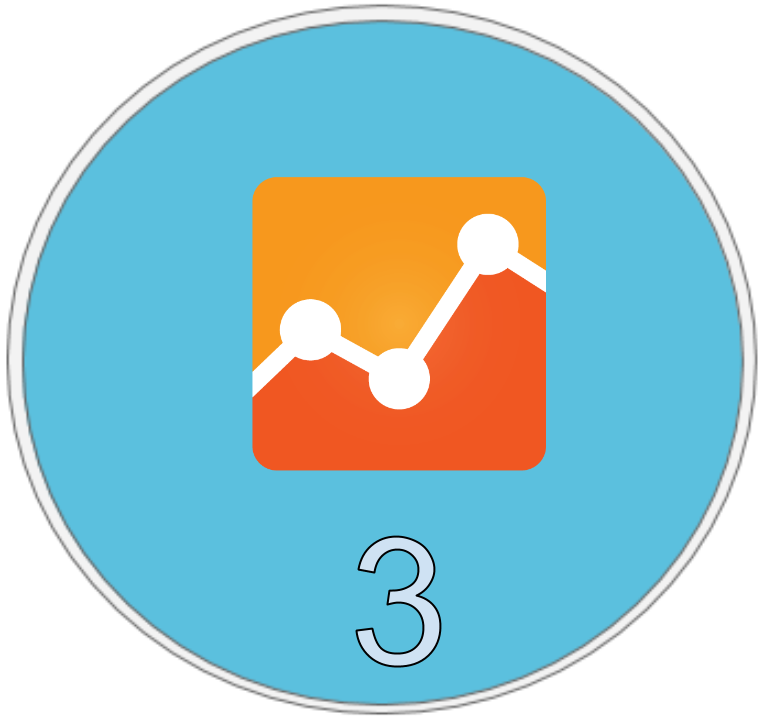
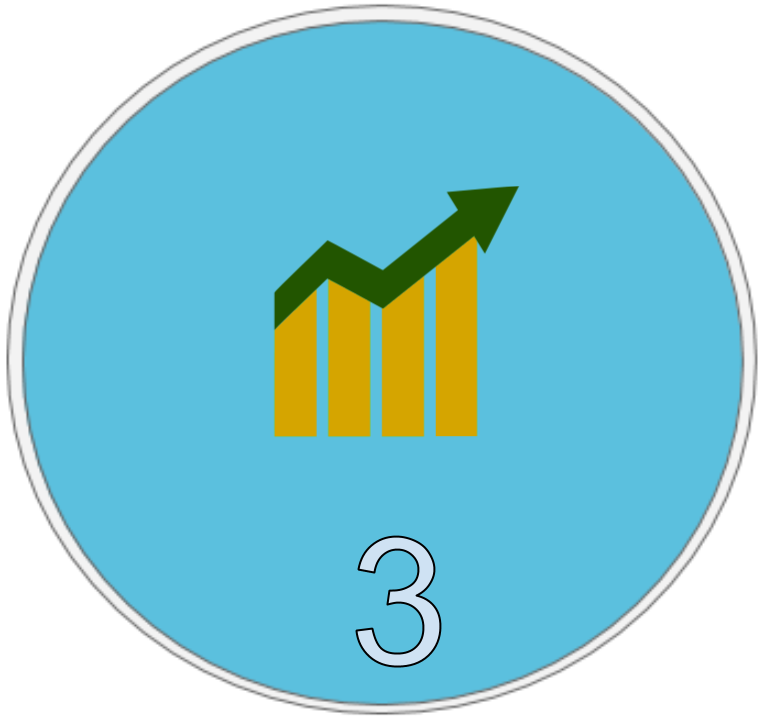
sidebar graphics 1

Changed region(s): [[0.3325, 0.2438, 0.7254, 0.6704]]

diff --git a/node/public/angular/views/workspace/index.html b/node/public/angular/views/workspace/index.html
@@ -8,23 +8,24 @@
 		<div id="sidebar_background"></div>
     
     	<div id="sidebar_content">
-    		<!--
-    		<div style="width: 100%; text-align: right;">
-				<a id="sidebar_toggle" href="javascript:void(0);"><< collapse</a>
-			</div>
-			-->
-			
-			<div ng-if="dataBool==true" style="max-width: 80%; margin: 30px auto;">
+    		<!-- upload -->
+			<div ng-if="dataBool==true" class="sidebar_item">
 				<upload-area></upload-area>
 			</div>
+			
+			<!-- data -->
+			<div class="sidebar_item" style="cursor: pointer;">
+				<img style="width: 96px; height: 96px;; margin: 5px;" src="/img/workspace/sidebar_data.png"
+				onmouseover="this.src='/img/workspace/sidebar_data_hover.png'"
+				onmouseout="this.src='/img/workspace/sidebar_data.png'"></img>
+			</div>
 	
-	
-			<ul class="sidebar-nav">
-				<li class="sidebar-brand"><a href="#">Home</a></li>
-				<li><a href="#">Another link</a></li>
-				<li><a href="#">Next link</a></li>
-				<li><a href="#">Last link</a></li>
-			</ul>
+			<!-- analysis -->
+			<div class="sidebar_item" style="cursor: pointer;">
+				<img style="width: 96px; height: 96px;; margin: 5px;" src="/img/workspace/sidebar_analysis.png"
+				onmouseover="this.src='/img/workspace/sidebar_analysis_hover.png'"
+				onmouseout="this.src='/img/workspace/sidebar_analysis.png'"></img>
+			</div>
 		</div>
     </div>
     
@@ -41,8 +42,8 @@
 				</div>
 	
 
-				<!-- place upload area -->
-				<!-- 1. no data case -->
+				<!-- upload area -->
+				<!-- no data case -->
 				<div ng-if="dataBool==false">
 					<div class="row">
 						<div class='col-md-12 text-center'>
@@ -58,21 +59,8 @@
 					</div>
 				</div>
 	
-				<!-- 2. some data case -->
-				
-				<!--
-				<div ng-if="dataBool==true">
-					<div class="row">
-						<div class="col-md-2 col-md-offset-10">
-							<upload-area big-bool="{{ !dataBool }}"></upload-area>
-						</div>
-					</div>
-				</div>
-				-->
 	
-				<!-- place upload area end -->
-	
-				<!-- place cubes -->
+				<!-- cubes -->
 				<div class="row">
 					<div id="cubes" class='col-md-12 text-center'>
 					</div>

diff --git a/node/public/angular/views/workspace/uploadArea.html b/node/public/angular/views/workspace/uploadArea.html
@@ -1,17 +1,18 @@
 <div class="upload_area" style="position: relative; display: inline-block;">
 	<!-- big version -->
 	<div ng-if="dataBool==false">
-		<img style="position: absolute; top: 5px; left: 5px; width: 48px; height: 48px;" src="/img/workspace/upload.png"></img>
+		<img ng-click="clickImage($event)" style="position: absolute; top: 5px; left: 5px; width: 48px; height: 48px;" src="/img/workspace/upload.png"></img>
 		<h3 >Drag file(s) here</h3>
 		<p>Or choose from folder...</p>
 	</div>
 	<!-- small version -->
 	<div ng-if="dataBool==true">
-		<img style="width: 48px; height: 48px;; margin: 5px;" src="/img/workspace/upload.png"></img>
+		<img ng-click="clickImage($event)" style="width: 48px; height: 48px;; margin: 5px;" src="/img/workspace/upload.png"></img>
 	</div>
 	
-	<!-- replication causes jquery selection issues -->
-	<input multiple ng-hide="dataBool==true" style="width: 100%; margin: 0 auto;" class="text-center form-control" type="file"></input>
+	<!-- display if big version -->
+	<input multiple ng-if="dataBool==true" style="display: none; width: 100%; margin: 0 auto;" class="text-center form-control" type="file"></input>
+	<input multiple ng-if="dataBool==false" style="width: 100%; margin: 0 auto;" class="text-center form-control" type="file"></input>
 
 	
 	<div style="margin: 0; margin-top: 10px;" class="my_hide progress progress-striped active">

diff --git a/node/public/angular/services/CubeService.js b/node/public/angular/services/CubeService.js
@@ -79,21 +79,42 @@ app.service('CubeService', function($http, $rootScope, $compile) {
 	this.removeCube = function(cube, cubeId) {
 		//console.log('Removing cube w/ id: ' + cubeId);
 		
-		var success = $('#main_alerts').find('.alert-success');
+		//var success = $('#main_alerts').find('.alert-success');
 		//var error
+		function successMessage() {
+			var success = $('<div class="my_hide alert alert-success">Cube successfully removed</div>');
+			cube.before(success);
+			
+			cube.slideUp("fast", function() {
+				cube.remove();
+			});
+			
+			success.slideDown();
+			setTimeout(function() {
+				success.slideUp("slow", function() {
+					success.remove();
+				});
+			}, 3000);
+		};
 		
+		successMessage();
+		
+		/*
 		$http.delete('/api/cube/'+cubeId)
 			.success(function(data) {
 				if (data.success) {
+					var success = cube.before(
+						'<div class="my_hide alert alert-success">Cube successfully removed</div>'
+					);
 					cube.remove();
-					
-					success.html('Cube successfully removed');
+					//success.html('Cube successfully removed');
 					success.slideDown();
 					setTimeout(function() {
 						success.slideUp();
+						success.remove();
 					}, 3000);
 				}
-			});
+			});*/
 	};
 
 	this.getCubes = function(next) {

diff --git a/node/public/angular/directives/WorkspaceDirectives.js b/node/public/angular/directives/WorkspaceDirectives.js
@@ -20,6 +20,14 @@ app.directive('uploadArea', function(UploadService) {
 			UploadService.onFileSelect(files, scope);
 		});
 		
+		// toggle file input display by clicking
+		// on image
+		scope.clickImage = function(e) {
+			e.preventDefault();
+			var input = element.find('input:file');
+			input.toggle('slow');
+		};
+		
 		
 		// drag and drop of files
 		// disable window default
@@ -42,13 +50,6 @@ app.directive('uploadArea', function(UploadService) {
 			e.preventDefault();
 			e.stopPropagation()
 			fileInput.prop("files", e.originalEvent.dataTransfer.files);
-			/*
-			var files = e.originalEvent.dataTransfer.files;
-			
-			for (var i=0; i<files.length; i++) {
-				console.log(fileInput[0].files.push('fds'));
-				//fileInput[0].files.push(files[i]);
-			}*/
 		});
 	};
 

diff --git a/node/public/styles/shared/generic.css b/node/public/styles/shared/generic.css
@@ -9,6 +9,9 @@
 	WORKSPACE
 **************/
 
+
+
+
 .upload_area {
 	border: 2px dashed grey;
 	border-radius: 6px;
@@ -16,6 +19,10 @@
 	padding: 15px;
 	text-align: center;
 }
+.upload_area img {
+	cursor: pointer;
+}
+
 
 .cube_summary {
 	display: inline-block;
@@ -49,6 +56,17 @@
 }
 
 /* sidebar stuff */
+
+.sidebar_item {
+	max-width: 80%;
+	margin: 30px auto;
+}
+
+.sidebar_item img:hover {
+  -moz-box-shadow:    0 0 20px whitesmoke;
+  -webkit-box-shadow: 0 0 20px whitesmoke;
+  box-shadow:         0 0 20px whitesmoke;
+}
 
 #wrapper {
   padding-left: 250px;
